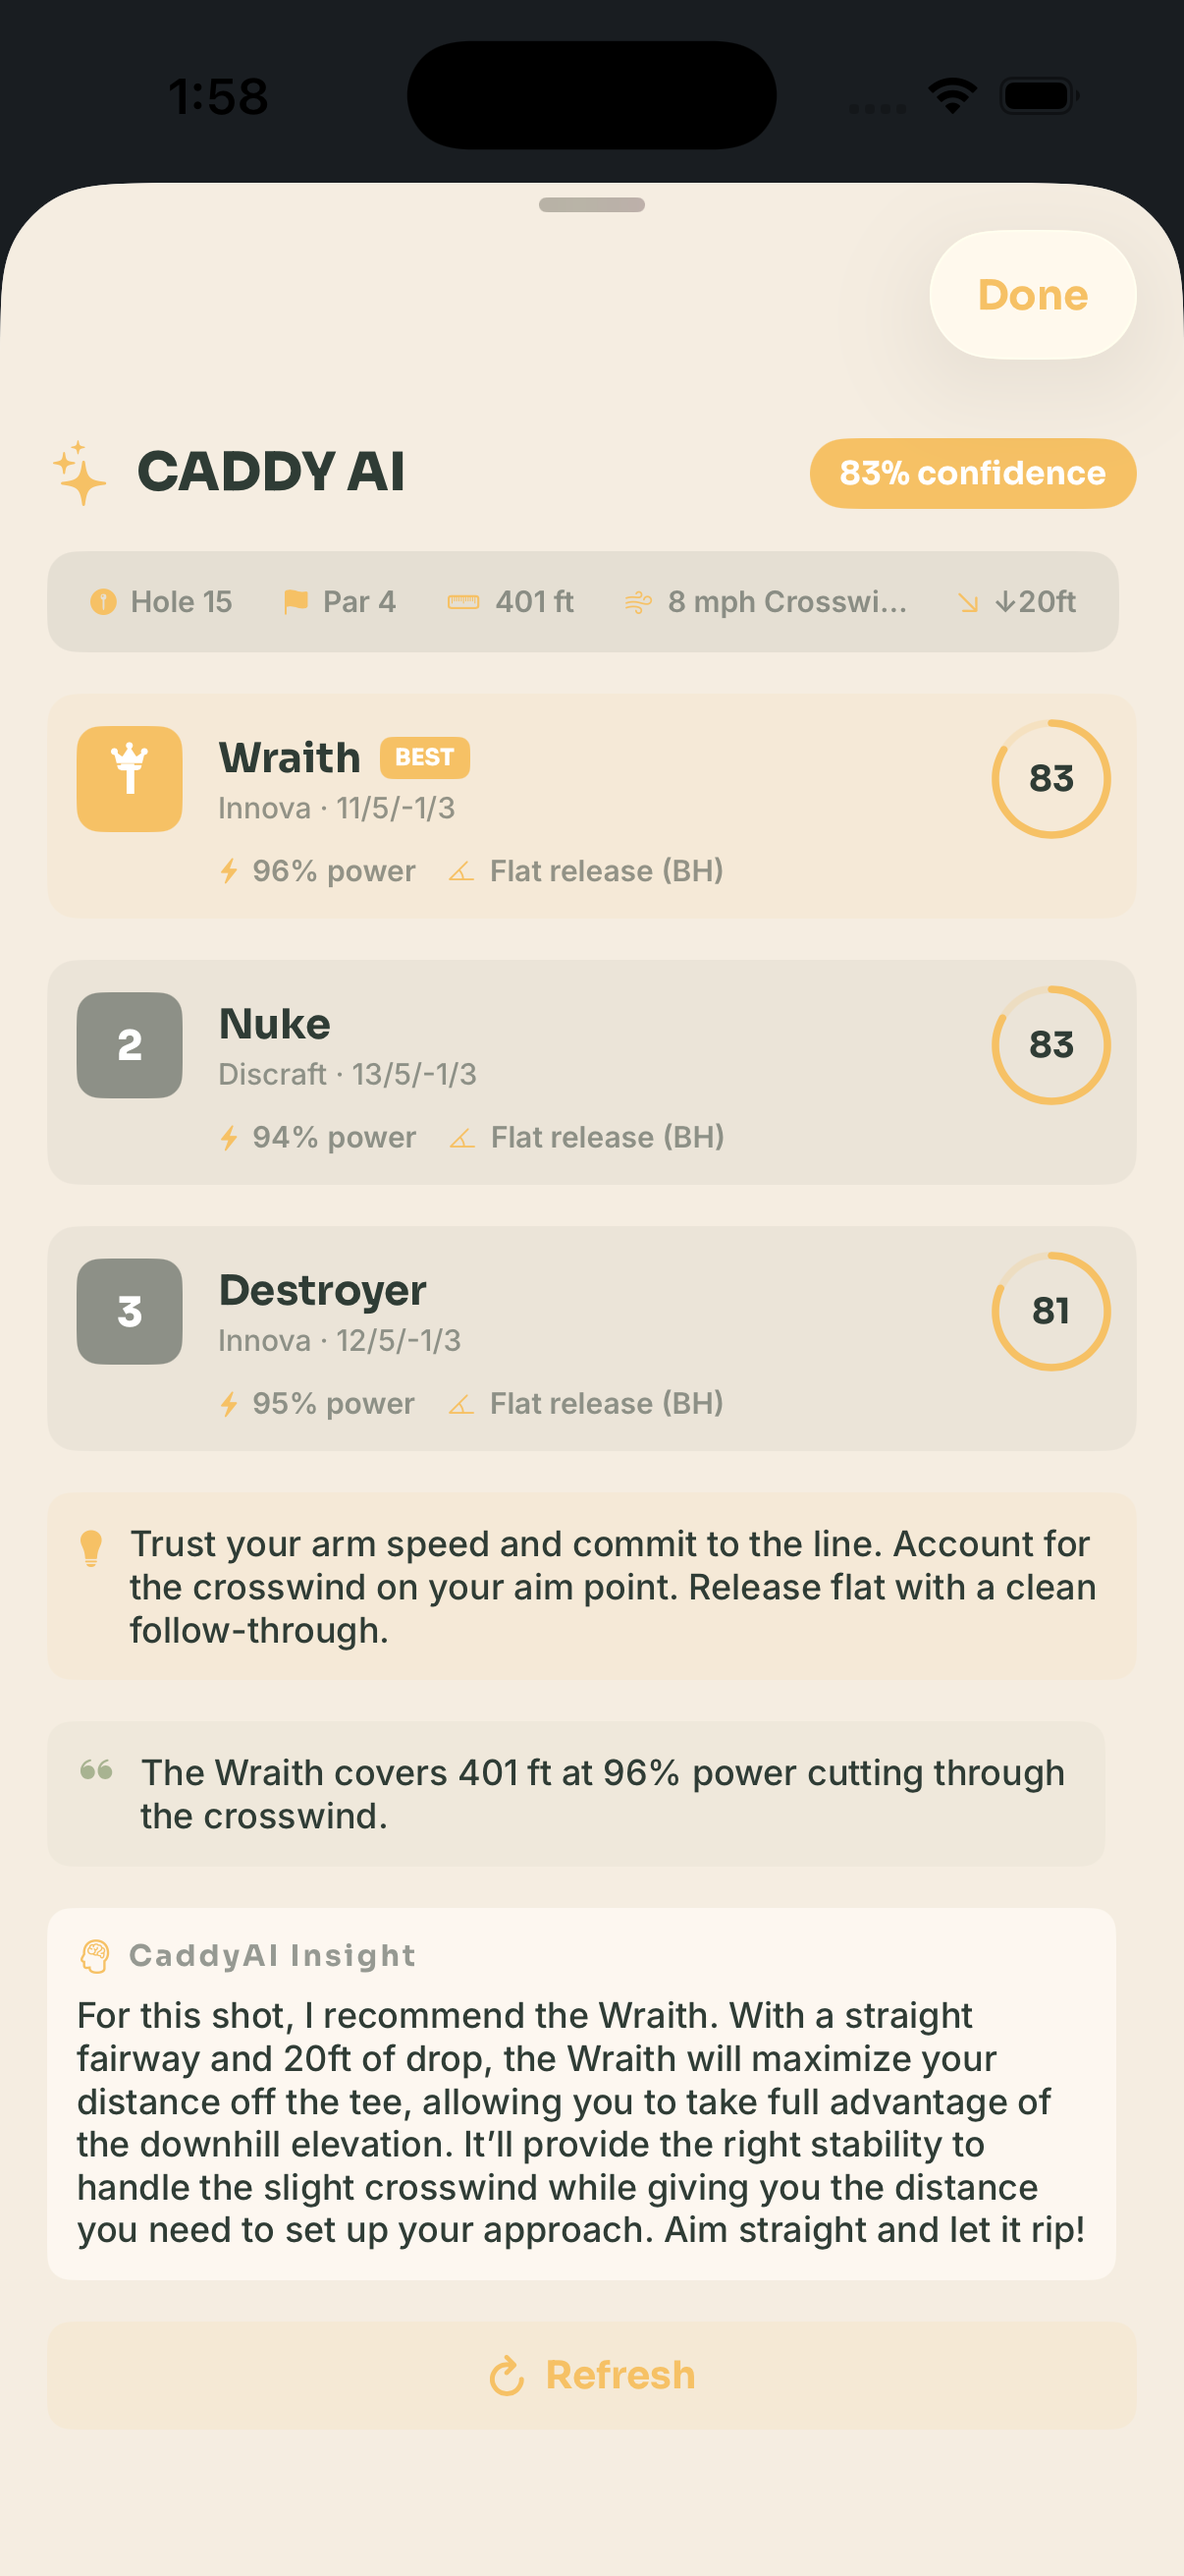
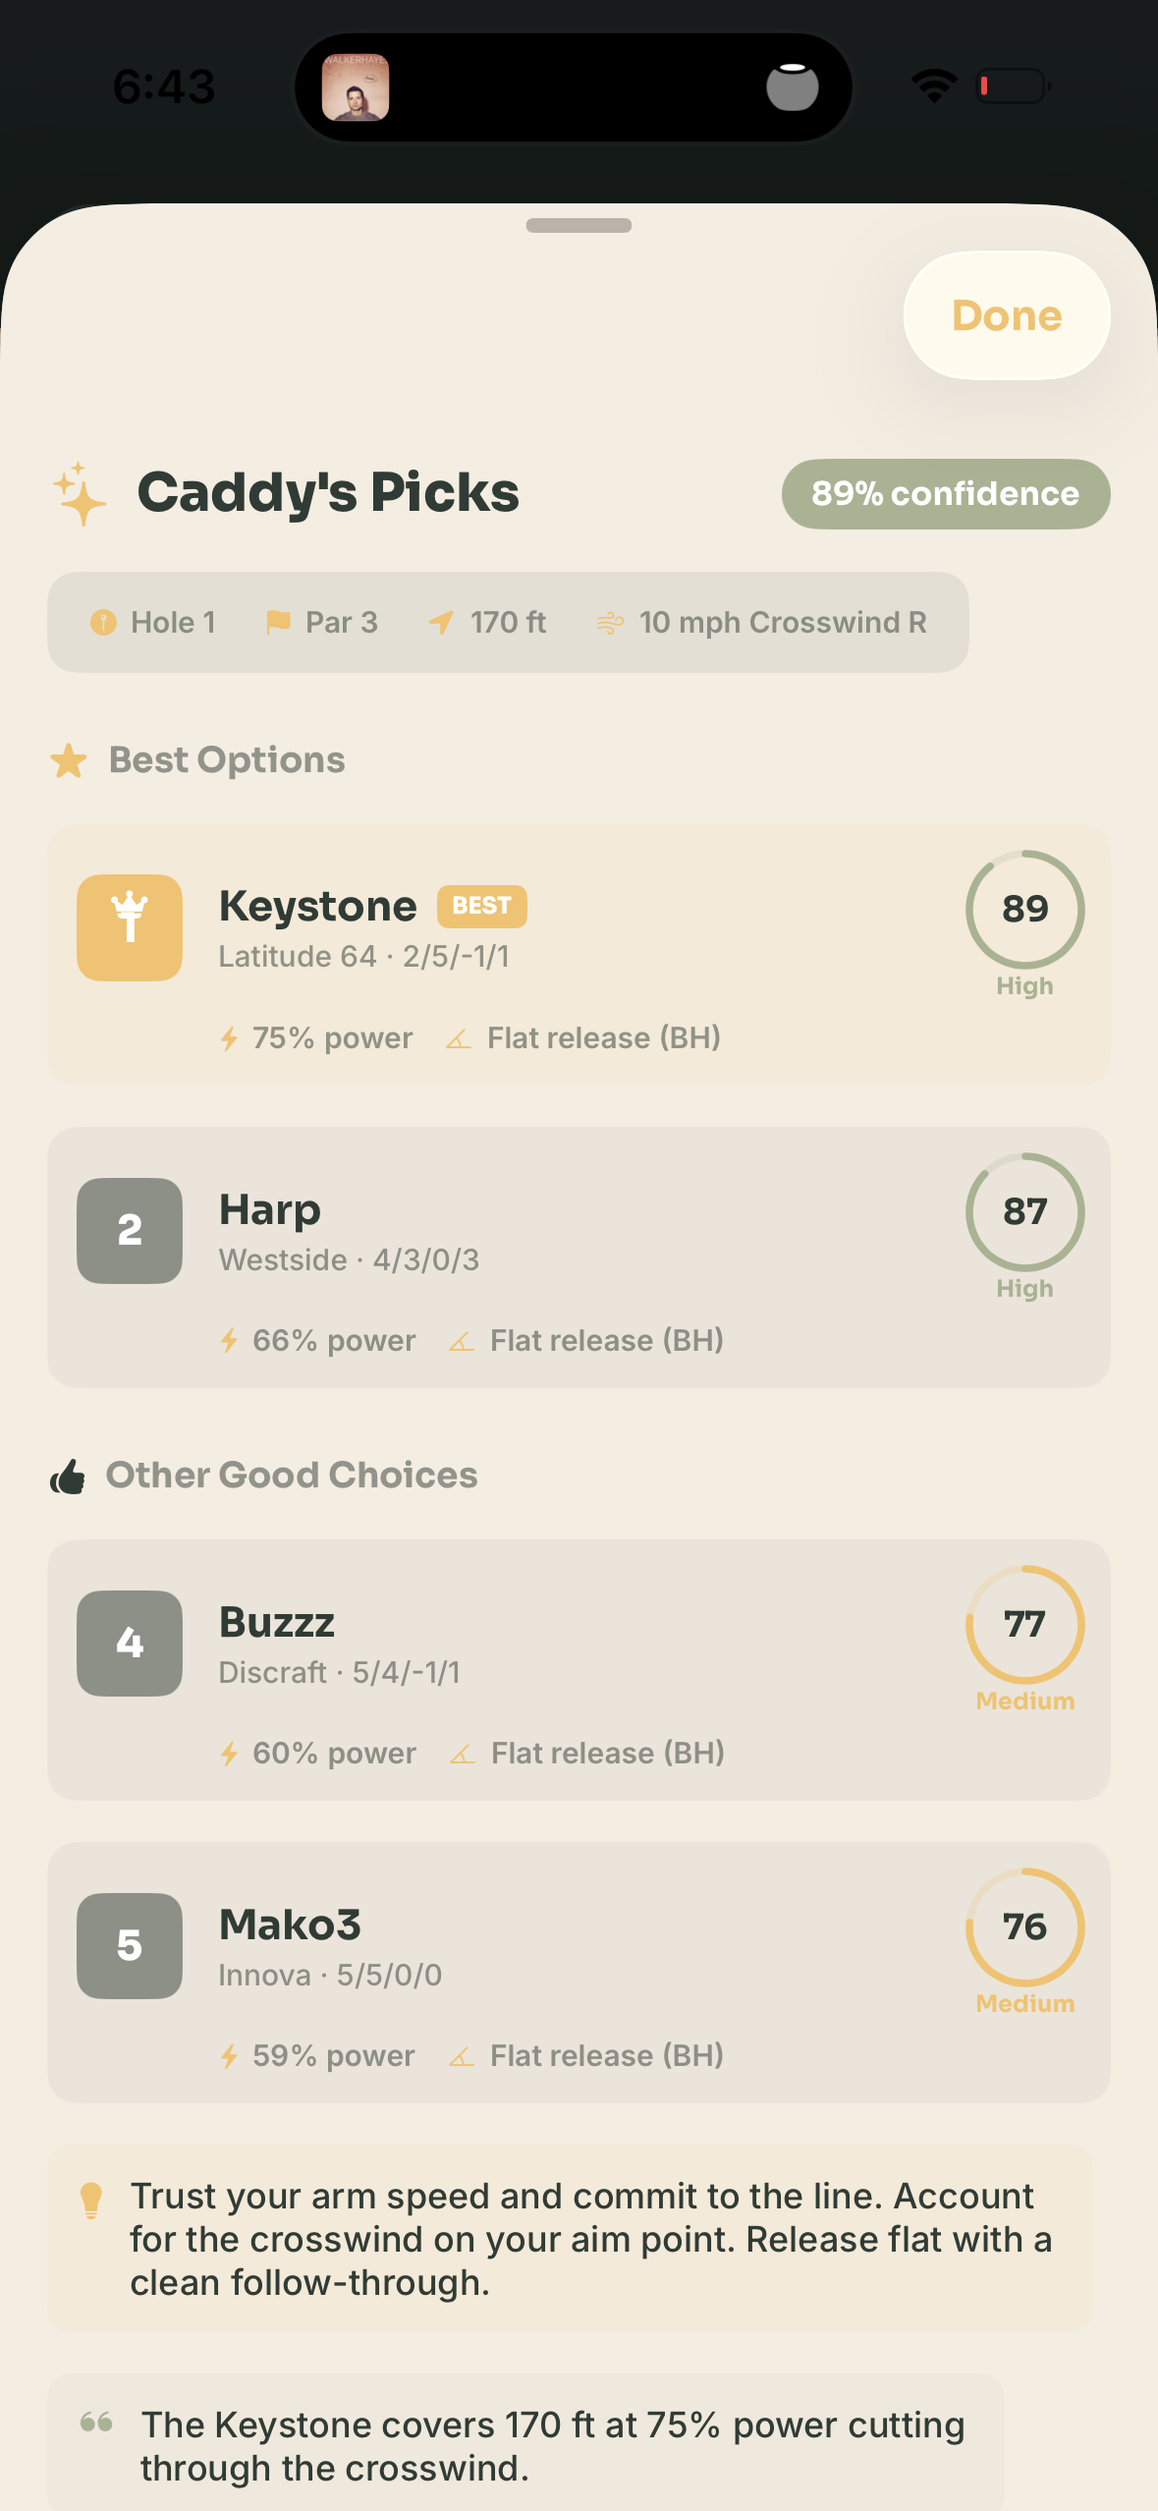
Rebrand CaddyAI section to Caddy's Picks with personalized focus
- New screenshot showing disc recommendations with confidence scores
- Rewritten copy emphasizing personalization: arm speed, wind,
  elevation, distance — not generic AI branding
- Updated bullet points to highlight the learning system

diff --git a/index.html b/index.html
@@ -845,32 +845,32 @@
 
     <div class="feature-inner reveal">
         <div class="feature-text">
-            <div class="feature-label">CaddyAI</div>
-            <h2><span class="gold">AI</span> That Knows<br>Every Shot</h2>
-            <p>Disc picks tailored to your bag and the hole. CaddyAI reads distance, wind, elevation, and terrain to give you ranked recommendations with confidence scores.</p>
+            <div class="feature-label">Caddy's Picks</div>
+            <h2><span class="gold">Personalized</span><br>Disc Picks</h2>
+            <p>A system that learns your bag, your arm speed, and your tendencies — then recommends the right disc for every shot. Wind, elevation, distance, and conditions are all factored in.</p>
             <div class="feature-checks">
                 <div class="feature-check">
                     <div class="icon"><svg fill="none" stroke="currentColor" stroke-width="3" viewBox="0 0 24 24"><path d="M20 6L9 17l-5-5" stroke-linecap="round" stroke-linejoin="round"/></svg></div>
-                    <span>Wind, weather &amp; elevation-aware recommendations</span>
+                    <span>Learns which discs you throw best</span>
                 </div>
                 <div class="feature-check">
                     <div class="icon"><svg fill="none" stroke="currentColor" stroke-width="3" viewBox="0 0 24 24"><path d="M20 6L9 17l-5-5" stroke-linecap="round" stroke-linejoin="round"/></svg></div>
-                    <span>Picks from the discs you actually carry</span>
+                    <span>Factors in wind, elevation &amp; distance</span>
                 </div>
                 <div class="feature-check">
                     <div class="icon"><svg fill="none" stroke="currentColor" stroke-width="3" viewBox="0 0 24 24"><path d="M20 6L9 17l-5-5" stroke-linecap="round" stroke-linejoin="round"/></svg></div>
-                    <span>Release angle, power, and form tips</span>
+                    <span>Adjusts for your arm speed &amp; release style</span>
                 </div>
                 <div class="feature-check">
                     <div class="icon"><svg fill="none" stroke="currentColor" stroke-width="3" viewBox="0 0 24 24"><path d="M20 6L9 17l-5-5" stroke-linecap="round" stroke-linejoin="round"/></svg></div>
-                    <span>Confidence scoring on every pick</span>
+                    <span>Ranked picks with confidence scores &amp; power tips</span>
                 </div>
             </div>
         </div>
         <div class="feature-phone">
             <div class="iphone-frame">
                 <div class="iphone-screen">
-                    <img src="assets/screen-caddy.png" alt="CaddyAI screen">
+                    <img src="assets/screen-caddy.png" alt="Caddy's Picks screen">
                 </div>
             </div>
         </div>
